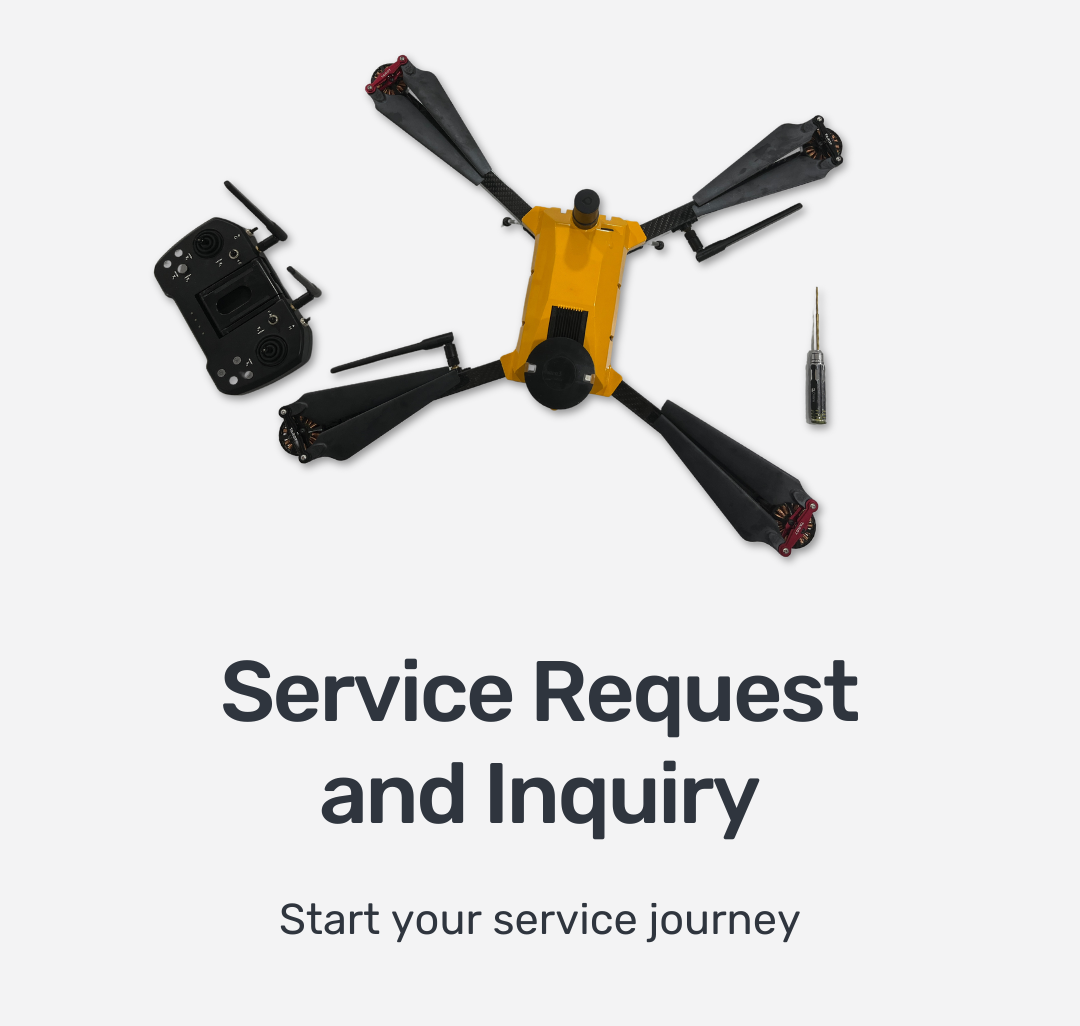
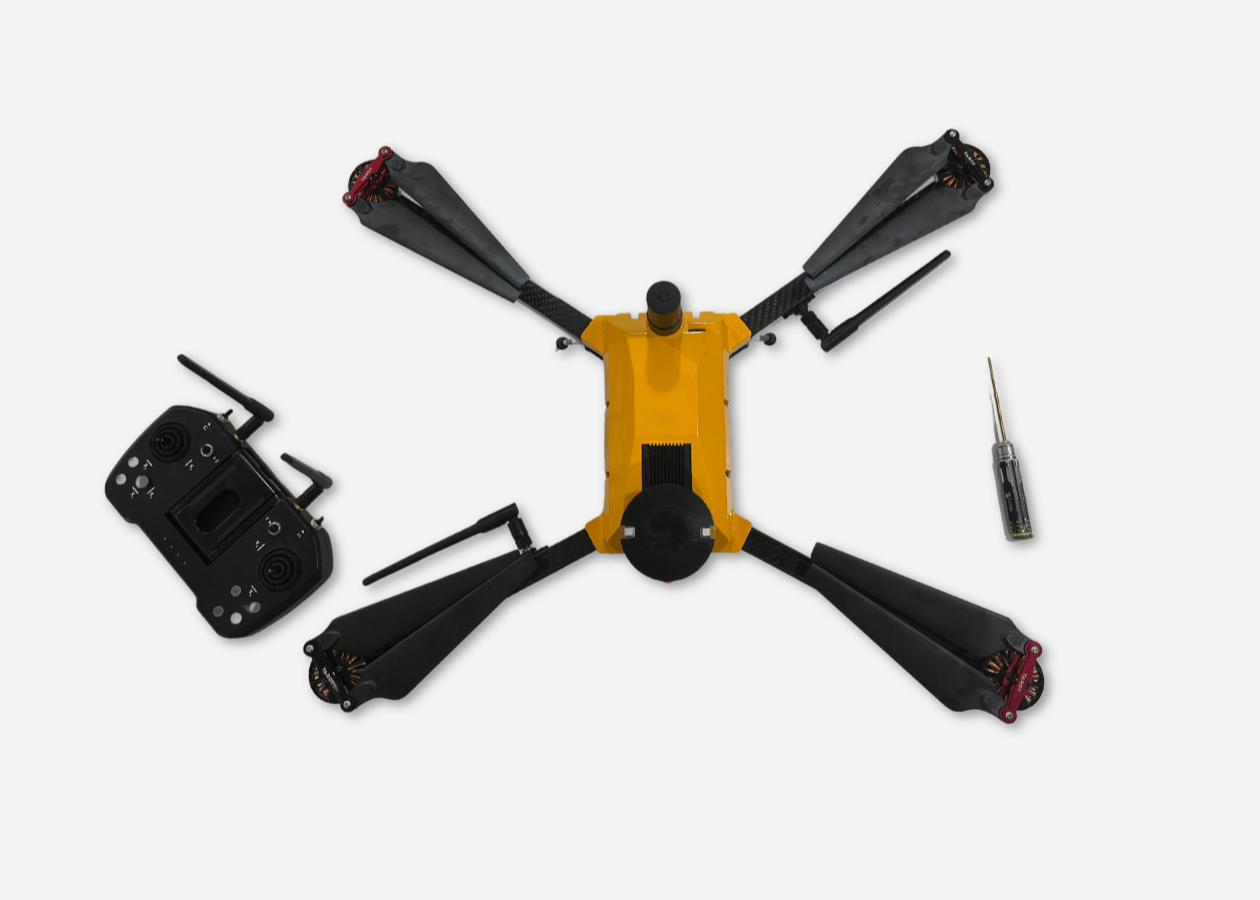
testing

Changed region(s): [[0.0611, 0.0311, 0.8556, 0.84], [0.2444, 0.8711, 0.7333, 0.9333], [0.1222, 0.3733, 0.1528, 0.4044]]

diff --git a/resource.css b/resource.css
@@ -14,13 +14,44 @@
     width: 100%;
 }
 
-.resource-banner-mobile{
-    display: none;
+.resource-banner-flexdiv{
+    background-image: url('./images/resource-banner.png');
+    width: 100%;
+    height: 100vh;
+    background-position: center;
+    background-size: cover;
+    display: flex;
+    flex-direction: row;
+    justify-content: center;
+    aspect-ratio: 16/9;
 }
 
-.resource-qr-tab{
+.resource-flexdiv-text{
+    width: 50%;
+    display: flex;
+    flex-direction: column;
+    justify-content: center;
+    align-items: center;
+}
+
+.resource-flexdiv-text h1{
+    font-size: 4.75rem;
+    width: 80%;
+}
+
+.resource-flexdiv-text h4{
+    font-size: 2.75rem;
+    text-align: left;
+    width: 80%;
+}
+
+.resource-flexdiv-img{
+    width: 50%;
+}
+
+.resource-flexdiv-img img{
     display: none;
-} 
+}
 
 .resource-maindiv{
     width: 70%;
@@ -33,7 +64,7 @@
 }
 
 .resource-section h1{
-    font-size: clamp(1.5rem, 3vw, 2.125rem);;
+    font-size: clamp(1.5rem, 3vw, 2.125rem);
     font-weight: 500;
     width: fit-content;
     position: relative;
@@ -137,7 +168,7 @@
 
 .resource-qr{
     width: 100%;
-    height: 100vh;
+    height: 90vh;
     display: flex;
     flex-direction: column;
     align-items: center;
@@ -153,6 +184,7 @@
     width: 100%;
     height: 100%;
     margin-top: 1rem;
+    aspect-ratio: 16 / 9;
 }
 
 .resource-qr p{
@@ -240,6 +272,16 @@
     .resource-maindiv{
         width: 80%;
     }
+    .resource-flexdiv-text h1{
+        width: 100%;
+        font-size: 4.5rem;
+        margin-left: 3rem;
+    }
+    .resource-flexdiv-text h4{
+        width: 100%;
+        font-size: 2.5rem;
+        margin-left: 3rem;
+    }
 }
 
 @media (max-width:1220px) {
@@ -292,22 +334,38 @@
     .resource-video-video{
         height: 220px;
     }
-}
-
-@media (max-width:850px) {
-    .resource-banner-fullsize{
-        display: none;
+    .resource-banner-flexdiv{
+        background-image: url('./images/resource-banner-mobile.png');
+        aspect-ratio: 1/1;
+        flex-direction: column;
+        align-items: flex-start;
+        justify-content: flex-end;
+        height: 130vh;
+        margin-top: 3rem;
+        background-size: contain;
+        background-repeat: no-repeat;
+        background-position: top;
+        background-color: #f3f3f4;
+    } 
+    .resource-flexdiv-img{
+        width: 100%;
     }
-    .resource-banner-mobile{
-        display: block;
-        margin-top: 5rem;
+    .resource-flexdiv-text{
+        width: 100%;
+        margin-bottom: 5rem;
     }
-    .resource-qr-fullsize{
-        display: none;
+    .resource-flexdiv-text h1{
+        width: 100%;
+        margin-left: 0;
+        text-align: center;
+        font-size: 3.5rem;
     }
-    .resource-qr-tab{
-        display: block;
-    }    
+    .resource-flexdiv-text h4{
+        width: 100%;
+        margin-left: 0;
+        text-align: center;
+        font-size: 2rem;
+    }
 }
 
 @media (max-width:800px) {
@@ -319,6 +377,14 @@
 @media (max-width:700px) {
     .resource-video-video{
         height: 180px;
+    }
+    .resource-banner-flexdiv{
+        height: 130vh;
+        background-size: cover;
+        background-image: url('./images/resource-banner-another.png');
+    }
+    .resource-flexdiv-text{
+        margin-bottom: 0;
     }
 }
 
@@ -340,12 +406,31 @@
     .resource-qr-mobile{
         display: block;
     } 
+    .resource-banner-flexdiv{
+        height: 100vh;
+        background-image: none;
+        margin-top: 5rem;
+    }
+    .resource-flexdiv-img img{
+        display: block;
+        width: 100%;
+        aspect-ratio: 1/1;
+    }
+    .resource-flexdiv-text h1{
+        font-size: 3rem;
+    }
+    .resource-flexdiv-text h4{
+        font-size: 1.8rem;
+    }
 }
 
 @media (max-width:456px) {
     .resource-qr img{
         width: 90%;
         height: 100%;
+    }
+    .resource-banner-flexdiv{
+        height: 100vh;
     }
 }
 

diff --git a/index.html b/index.html
@@ -295,8 +295,16 @@
       <!-- End header-wrapper -->
     </header>
 <div class="resource-banner-div">
-  <img src="./images/resource-banner.png" alt="resource-page-banner" class="resource-banner-fullsize">
-  <img src="./images/resource-banner-mobile.png" alt="resource-page-banner" class="resource-banner-mobile">
+  <div class="resource-banner-flexdiv">
+    <div class="resource-flexdiv-img">
+      <img src="./images/resource-banner-mobile.png" alt="">
+    </div>
+    <div class="resource-flexdiv-text">
+      <h1>Service Request and Enquiry</h1>
+      <h4>Start your service journey</h4>
+    </div>
+  </div>
+  <!-- <img src="./images/resource-banner.png" alt="resource-page-banner" class="resource-banner-fullsize"> -->
     <div class="resource-maindiv">
       <!-- <h1 class="resource-catalog">Resource Catalog</h1> -->
 
@@ -796,8 +804,6 @@
                   Customer Support Form (QR and Link)
                 </p> -->
                 <img src="./images/customer-support-nobg.png" alt="QR Code" class="resource-qr-fullsize"/>
-                <img src="./images/customer-support-tab.png" alt="QR Code" class="resource-qr-tab"/>
-                <img src="./images/customer-support-mobile.png" alt="QR Code" class="resource-qr-mobile"/>
               </div>
             <!-- </div> -->
             <!-- <div class="resource-info">
